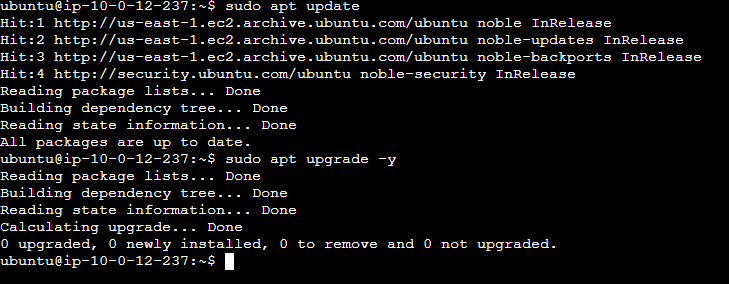
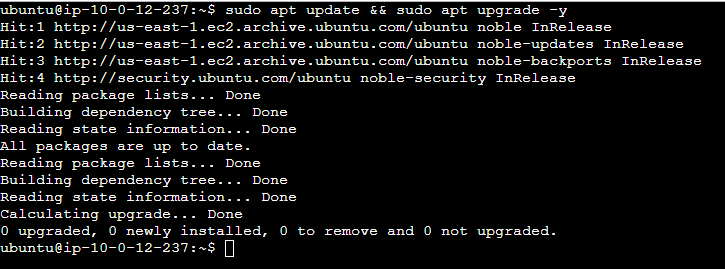
a

Changed region(s): [[0.0, 0.0, 1.0, 0.9517]]

diff --git a/aws/1.vpc/readme.md b/aws/1.vpc/readme.md
@@ -14,6 +14,7 @@
   - [1. Crear una VPC](#1-crear-una-vpc)
   - [2. Crear una instancia EC2](#2-crear-una-instancia-ec2)
   - [3. Instalación de WordPress en la instancia EC2](#3-instalación-de-wordpress-en-la-instancia-ec2)
+  - [](#)
   - [EFS ](#efs-)
 
 
@@ -152,11 +153,74 @@ El primer paso es crear una VPC. Una VPC es una red virtual que permite a los us
 
 - **Actualizamos el sistema**
 
-```
-  sudo apt update && sudo apt upgrade -y
+```bash
+sudo apt update && sudo apt upgrade -y
 ```
 
 ![alt text](image-23.png)
 
+- **Instalamos Apache2**
+
+```bash
+sudo apt install apache2 -y
+```
+
+![alt text](image-24.png)
+
+- **Activamos el servicio Apache2**
+
+```bash
+sudo systemctl start apache2 && sudo systemctl enable apache2
+```
+
+![alt text](image-25.png)
+
+Comprobamos que todo esta correctamente configurado y que el servicio Apache2 se encuentra en ejecución, para ello, verificamos el servidor poniendo la dirección IP de la instancia EC2 en el navegador.
+
+![alt text](image-26.png)
+
+- **Añadimos el repositorio de PHP**
+
+```bash
+sudo add-apt-repository ppa:ondrej/php -y
+```
+
+![alt text](image-27.png)
+
+- **Instalamos PHP**
+
+```bash
+sudo apt install php7.4 libapache2-mod-php7.4 php7.4-cli -y
+```
+
+![alt text](image-28.png)
+
+- **Instalamos MySQL**
+
+```bash
+sudo apt install php7.4-mysql -y
+```
+
+![alt text](image-29.png)
+
+- **Reiniciamos el servicio Apache2**
+
+```bash
+sudo systemctl restart apache2
+```
+
+![alt text](image-30.png)
+
+- **Comprobamos que PHP esta correctamente instalado**
+
+```bash
+php -v
+```
+
+![alt text](image-31.png)
+
+---
+
+## 
 
 ## EFS <a href="../2.efs/readme.md"><img src="/.resGen/_arrow.svg" width="30" align="right"></a>
